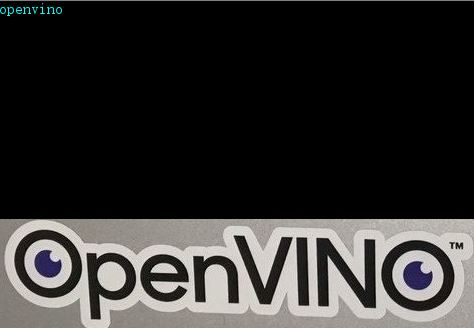
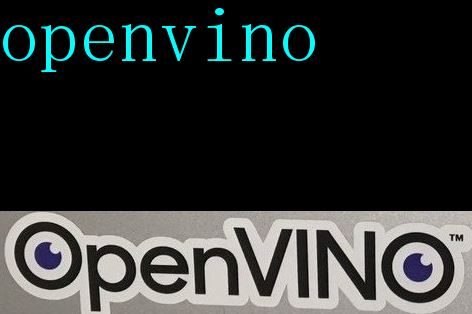
first commit

Changed region(s): [[0.0, 0.6592, 1.0, 1.0], [0.0, 0.0, 1.0, 0.2293]]

diff --git a/main.py b/main.py
@@ -78,7 +78,7 @@ def test_text_recogntion():
         out  = text_recognition_model(oriim)
         #print(out)
         
-        def cv2ImgAddText(img, text, left, top, textColor=(0, 255, 255), textSize=15):
+        def cv2ImgAddText(img, text, left, top, textColor=(0, 255, 255), textSize=80):
             from PIL import Image,ImageDraw,ImageFont 
             if (isinstance(img, np.ndarray)):
                 img = Image.fromarray(cv2.cvtColor(img, cv2.COLOR_BGR2RGB))
@@ -106,5 +106,5 @@ if __name__ == '__main__':
     args = build_argparser().parse_args()
     ie_core = load_ie_core(args.device, args.cpu_extension)
     #sys.exit(test_ov() or 0)            
-    test_text_detection()
-    #test_text_recogntion()
+    #test_text_detection()
+    test_text_recogntion()
